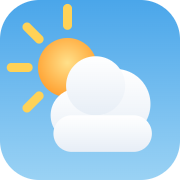
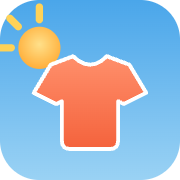
feat: add t-shirt weather highligh + name

diff --git a/app/components/WeatherMap.vue b/app/components/WeatherMap.vue
@@ -4,6 +4,7 @@ import { tempColor, contrastText } from '../utils/tempScale'
 import { weatherIcon } from '../utils/weatherIcon'
 import { shortDayLabel, longDayLabel } from '../utils/days'
 import { declutter, type Box } from '../utils/declutter'
+import { isTshirtWeather } from '../utils/tshirt'
 
 // Turn an ISO country code (e.g. "DE") into a readable name ("Germany") for tooltips
 // and screen-reader labels. Falls back to the raw code if the API is unavailable.
@@ -38,9 +39,11 @@ interface CityMarker {
   marker: Marker
   pill: HTMLElement
   data: CityFeature['properties']
+  /** Whether any day in the current range is t-shirt weather (drives highlight + declutter priority). */
+  tshirtOk: boolean
 }
 
-const props = defineProps<{ range: { from: number; to: number } }>()
+const props = defineProps<{ range: { from: number; to: number }; tshirt: boolean }>()
 
 const EUROPE_BOUNDS: [number, number, number, number] = [-30, 30, 50, 75]
 
@@ -86,7 +89,7 @@ onBeforeUnmount(() => {
   map?.remove()
 })
 
-watch(() => [props.range.from, props.range.to], renderRange)
+watch(() => [props.range.from, props.range.to, props.tshirt], renderRange)
 
 function scheduleRefresh() {
   clearTimeout(debounceTimer)
@@ -164,7 +167,7 @@ async function renderMarkers(features: CityFeature[]) {
       .setLngLat(feature.geometry.coordinates)
       .addTo(map)
 
-    markers.push({ marker, pill, data: properties })
+    markers.push({ marker, pill, data: properties, tshirtOk: false })
   }
 
   renderRange()
@@ -183,15 +186,18 @@ function renderRange() {
     m.pill.replaceChildren()
     const titleParts: string[] = []
     const labelParts: string[] = []
+    let anyTshirt = false
 
     for (let day = lo; day <= hi; day++) {
       const t = m.data.temps[day]
       const code = m.data.codes[day]
       if (t === undefined || code === undefined) continue
       const { icon, label } = weatherIcon(code)
+      const tshirt = isTshirtWeather(t, code)
+      if (tshirt) anyTshirt = true
 
       const cell = document.createElement('div')
-      cell.className = 'city-marker__day'
+      cell.className = props.tshirt && tshirt ? 'city-marker__day city-marker__day--tshirt' : 'city-marker__day'
       cell.style.backgroundColor = tempColor(t)
       cell.style.color = contrastText(t)
 
@@ -211,13 +217,17 @@ function renderRange() {
       m.pill.append(cell)
 
       titleParts.push(`${shortDayLabel(day)} ${t}° ${label}`)
-      labelParts.push(`${longDayLabel(day)}, ${t} degrees Celsius, ${label}`)
+      labelParts.push(`${longDayLabel(day)}, ${t} degrees Celsius, ${label}${tshirt ? ', t-shirt weather' : ''}`)
     }
 
     const place = `${m.data.name}, ${countryName(m.data.country)}${m.data.capital ? ' (capital)' : ''}`
     const el = m.marker.getElement()
     el.title = `${place}\n${titleParts.join('\n')}`
     el.setAttribute('aria-label', `${place}. Forecast: ${labelParts.join('. ')}.`)
+    m.tshirtOk = anyTshirt
+    // In t-shirt mode, fade cities with no warm-and-dry day in the range so the
+    // qualifying ones pop.
+    el.classList.toggle('city-marker--faded', props.tshirt && !anyTshirt)
   }
 
   declutterMarkers()
@@ -226,24 +236,29 @@ function renderRange() {
 /**
  * Hides markers that would overlap higher-priority ones. `markers` is in server
  * importance order (capitals first, then population), so ties resolve to the more
- * significant city. Runs after every (re)render — wider ranges make chips bigger,
- * so more get suppressed, keeping the map legible. Hidden markers reappear on zoom-in
- * as they stop colliding.
+ * significant city. In t-shirt mode, qualifying cities are promoted so they win
+ * collisions against faded ones. Runs after every (re)render — wider ranges make chips
+ * bigger, so more get suppressed. Hidden markers reappear on zoom-in as they stop colliding.
  */
 function declutterMarkers() {
   // Show all first so every marker is measurable at its true size.
   for (const m of markers) m.marker.getElement().style.display = ''
 
-  const boxes: Box[] = markers.map((m) => {
-    const r = m.marker.getElement().getBoundingClientRect()
+  // Placement order = priority. In t-shirt mode, warm-and-dry cities go first (stable
+  // sort preserves importance within each group) so they aren't hidden behind faded ones.
+  const order = markers.map((_, i) => i)
+  if (props.tshirt) order.sort((a, b) => Number(markers[b]!.tshirtOk) - Number(markers[a]!.tshirtOk))
+
+  const boxes: Box[] = order.map((i) => {
+    const r = markers[i]!.marker.getElement().getBoundingClientRect()
     return { left: r.left, top: r.top, right: r.right, bottom: r.bottom }
   })
 
   const visible = declutter(boxes, MARKER_GAP)
   let hidden = 0
-  for (let i = 0; i < markers.length; i++) {
-    if (!visible[i]) {
-      markers[i]!.marker.getElement().style.display = 'none'
+  for (let k = 0; k < order.length; k++) {
+    if (!visible[k]) {
+      markers[order[k]!]!.marker.getElement().style.display = 'none'
       hidden++
     }
   }
@@ -402,6 +417,17 @@ function declutterMarkers() {
 
 .city-marker__day + .city-marker__day {
   border-left: 1px solid rgba(255, 255, 255, 0.4);
+}
+
+/* T-shirt-weather mode: ring the warm-and-dry day cells, fade cities with none. */
+.city-marker__day--tshirt {
+  box-shadow: inset 0 0 0 2px #10b981;
+}
+
+.city-marker--faded {
+  opacity: 0.3;
+  filter: grayscale(0.5);
+  z-index: 0;
 }
 
 .city-marker__wday {

diff --git a/app/components/TshirtToggle.vue b/app/components/TshirtToggle.vue
@@ -1,0 +1,49 @@
+<script setup lang="ts">
+const active = defineModel<boolean>({ required: true })
+</script>
+
+<template>
+  <button
+    type="button"
+    class="tshirt-toggle"
+    :class="{ 'tshirt-toggle--active': active }"
+    :aria-pressed="active"
+    @click="active = !active"
+  >
+    <span class="tshirt-toggle__icon" aria-hidden="true">👕</span>
+    T-shirt weather
+  </button>
+</template>
+
+<style scoped>
+.tshirt-toggle {
+  display: inline-flex;
+  align-items: center;
+  gap: 6px;
+  border: 1px solid rgba(255, 255, 255, 0.25);
+  background: rgba(20, 24, 30, 0.75);
+  backdrop-filter: blur(6px);
+  color: rgba(255, 255, 255, 0.8);
+  font-size: 13px;
+  font-weight: 600;
+  padding: 6px 12px;
+  border-radius: 999px;
+  cursor: pointer;
+  transition: background-color 0.15s ease, color 0.15s ease, border-color 0.15s ease;
+}
+
+.tshirt-toggle:hover {
+  background: rgba(20, 24, 30, 0.9);
+}
+
+.tshirt-toggle--active {
+  background: #10b981;
+  border-color: #10b981;
+  color: #fff;
+}
+
+.tshirt-toggle__icon {
+  font-size: 15px;
+  line-height: 1;
+}
+</style>

diff --git a/test/tshirt.test.ts b/test/tshirt.test.ts
@@ -1,0 +1,26 @@
+import { describe, it, expect } from 'vitest'
+import { isTshirtWeather, TSHIRT_MIN_TEMP } from '../app/utils/tshirt'
+
+describe('isTshirtWeather', () => {
+  it('is true when warm and dry', () => {
+    expect(isTshirtWeather(24, 0)).toBe(true) // 24°, clear
+    expect(isTshirtWeather(21, 2)).toBe(true) // 21°, partly cloudy
+    expect(isTshirtWeather(30, 3)).toBe(true) // 30°, overcast but dry
+  })
+
+  it('is false when too cold, even if dry', () => {
+    expect(isTshirtWeather(TSHIRT_MIN_TEMP - 1, 0)).toBe(false)
+    expect(isTshirtWeather(12, 1)).toBe(false)
+  })
+
+  it('is false when warm but wet/foggy/stormy', () => {
+    expect(isTshirtWeather(25, 61)).toBe(false) // rain
+    expect(isTshirtWeather(25, 45)).toBe(false) // fog
+    expect(isTshirtWeather(25, 95)).toBe(false) // thunderstorm
+    expect(isTshirtWeather(25, 80)).toBe(false) // rain showers
+  })
+
+  it('is inclusive at the temperature threshold', () => {
+    expect(isTshirtWeather(TSHIRT_MIN_TEMP, 0)).toBe(true)
+  })
+})

diff --git a/app/utils/tshirt.ts b/app/utils/tshirt.ts
@@ -1,0 +1,10 @@
+/** Minimum temperature (°C) considered warm enough for just a t-shirt. */
+export const TSHIRT_MIN_TEMP = 20
+
+/** Dry, fair WMO weather codes (clear → overcast). Precipitation, fog, snow, storms excluded. */
+const FAIR_CODES = new Set([0, 1, 2, 3])
+
+/** True when it's warm enough and dry enough to comfortably wear just a t-shirt. */
+export function isTshirtWeather(temp: number, code: number): boolean {
+  return temp >= TSHIRT_MIN_TEMP && FAIR_CODES.has(code)
+}

diff --git a/app/app.vue b/app/app.vue
@@ -1,16 +1,18 @@
 <script setup lang="ts">
 const range = ref({ from: 0, to: 2 })
+const tshirt = ref(false)
 </script>
 
 <template>
   <div class="page">
     <NuxtRouteAnnouncer />
     <ClientOnly>
-      <WeatherMap :range="range" />
+      <WeatherMap :range="range" :tshirt="tshirt" />
     </ClientOnly>
 
     <div class="overlay overlay--top">
       <DayRange v-model="range" />
+      <TshirtToggle v-model="tshirt" />
     </div>
 
     <div class="attribution">
@@ -47,6 +49,10 @@ body,
   top: 12px;
   left: 50%;
   transform: translateX(-50%);
+  display: flex;
+  flex-direction: column;
+  align-items: center;
+  gap: 8px;
 }
 
 .attribution {

diff --git a/nuxt.config.ts b/nuxt.config.ts
@@ -21,7 +21,13 @@ export default defineNuxtConfig({
 
   app: {
     head: {
-      title: 'Weather Europe',
+      title: 'T-Shirt Weather',
+      meta: [
+        { name: 'description', content: 'T-Shirt Weather — see where in Europe it’s warm enough for a t-shirt: live temperatures and conditions, from capitals to towns.' },
+        { property: 'og:title', content: 'T-Shirt Weather' },
+        { property: 'og:description', content: 'See where in Europe it’s warm enough for a t-shirt: live temperatures and conditions, from capitals to towns.' },
+        { property: 'og:type', content: 'website' },
+      ],
       link: [
         // SVG for modern browsers, .ico fallback, PNG for iOS home-screen.
         { rel: 'icon', type: 'image/svg+xml', href: '/favicon.svg' },

diff --git a/README.md b/README.md
@@ -1,9 +1,10 @@
-# weathereurope
+# T-Shirt Weather
 
-An interactive map of European cities showing per-day weather (temperature + condition
-icon) for a selectable date range. Capitals show first; smaller cities and towns reveal
-as you zoom in. Built with Nuxt 4 + MapLibre GL, weather from
-[Open-Meteo](https://open-meteo.com/) (MET Norway model), city data from
+**T-Shirt Weather** is an interactive map of European cities showing per-day weather
+(temperature + condition icon) for a selectable date range. Capitals show first; smaller
+cities and towns reveal as you zoom in, and a **t-shirt weather** toggle highlights the
+places where it's warm and dry enough for just a tee. Built with Nuxt 4 + MapLibre GL,
+weather from [Open-Meteo](https://open-meteo.com/) (MET Norway model), city data from
 [GeoNames](https://www.geonames.org/).
 
 ## Development